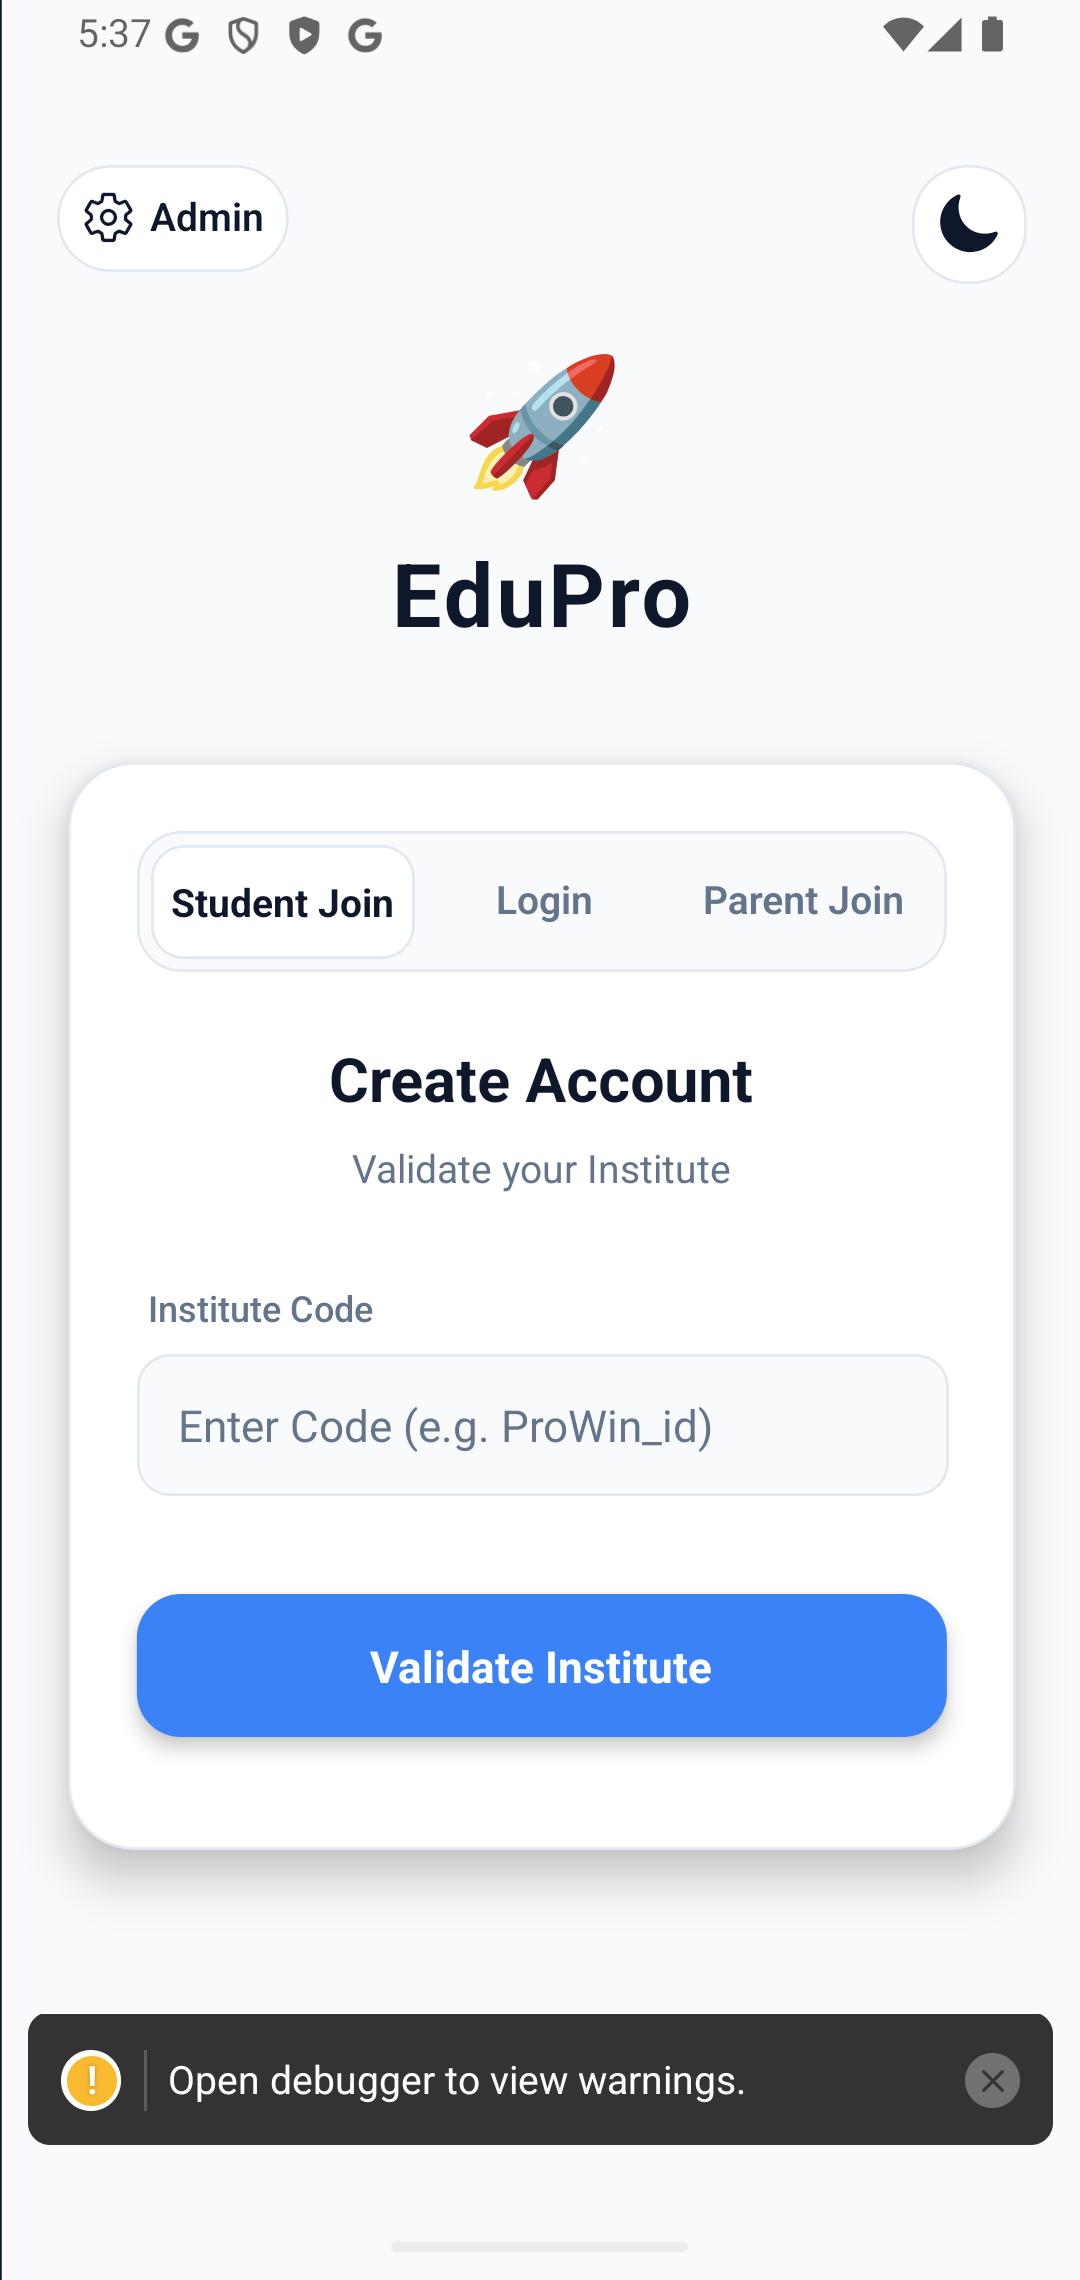
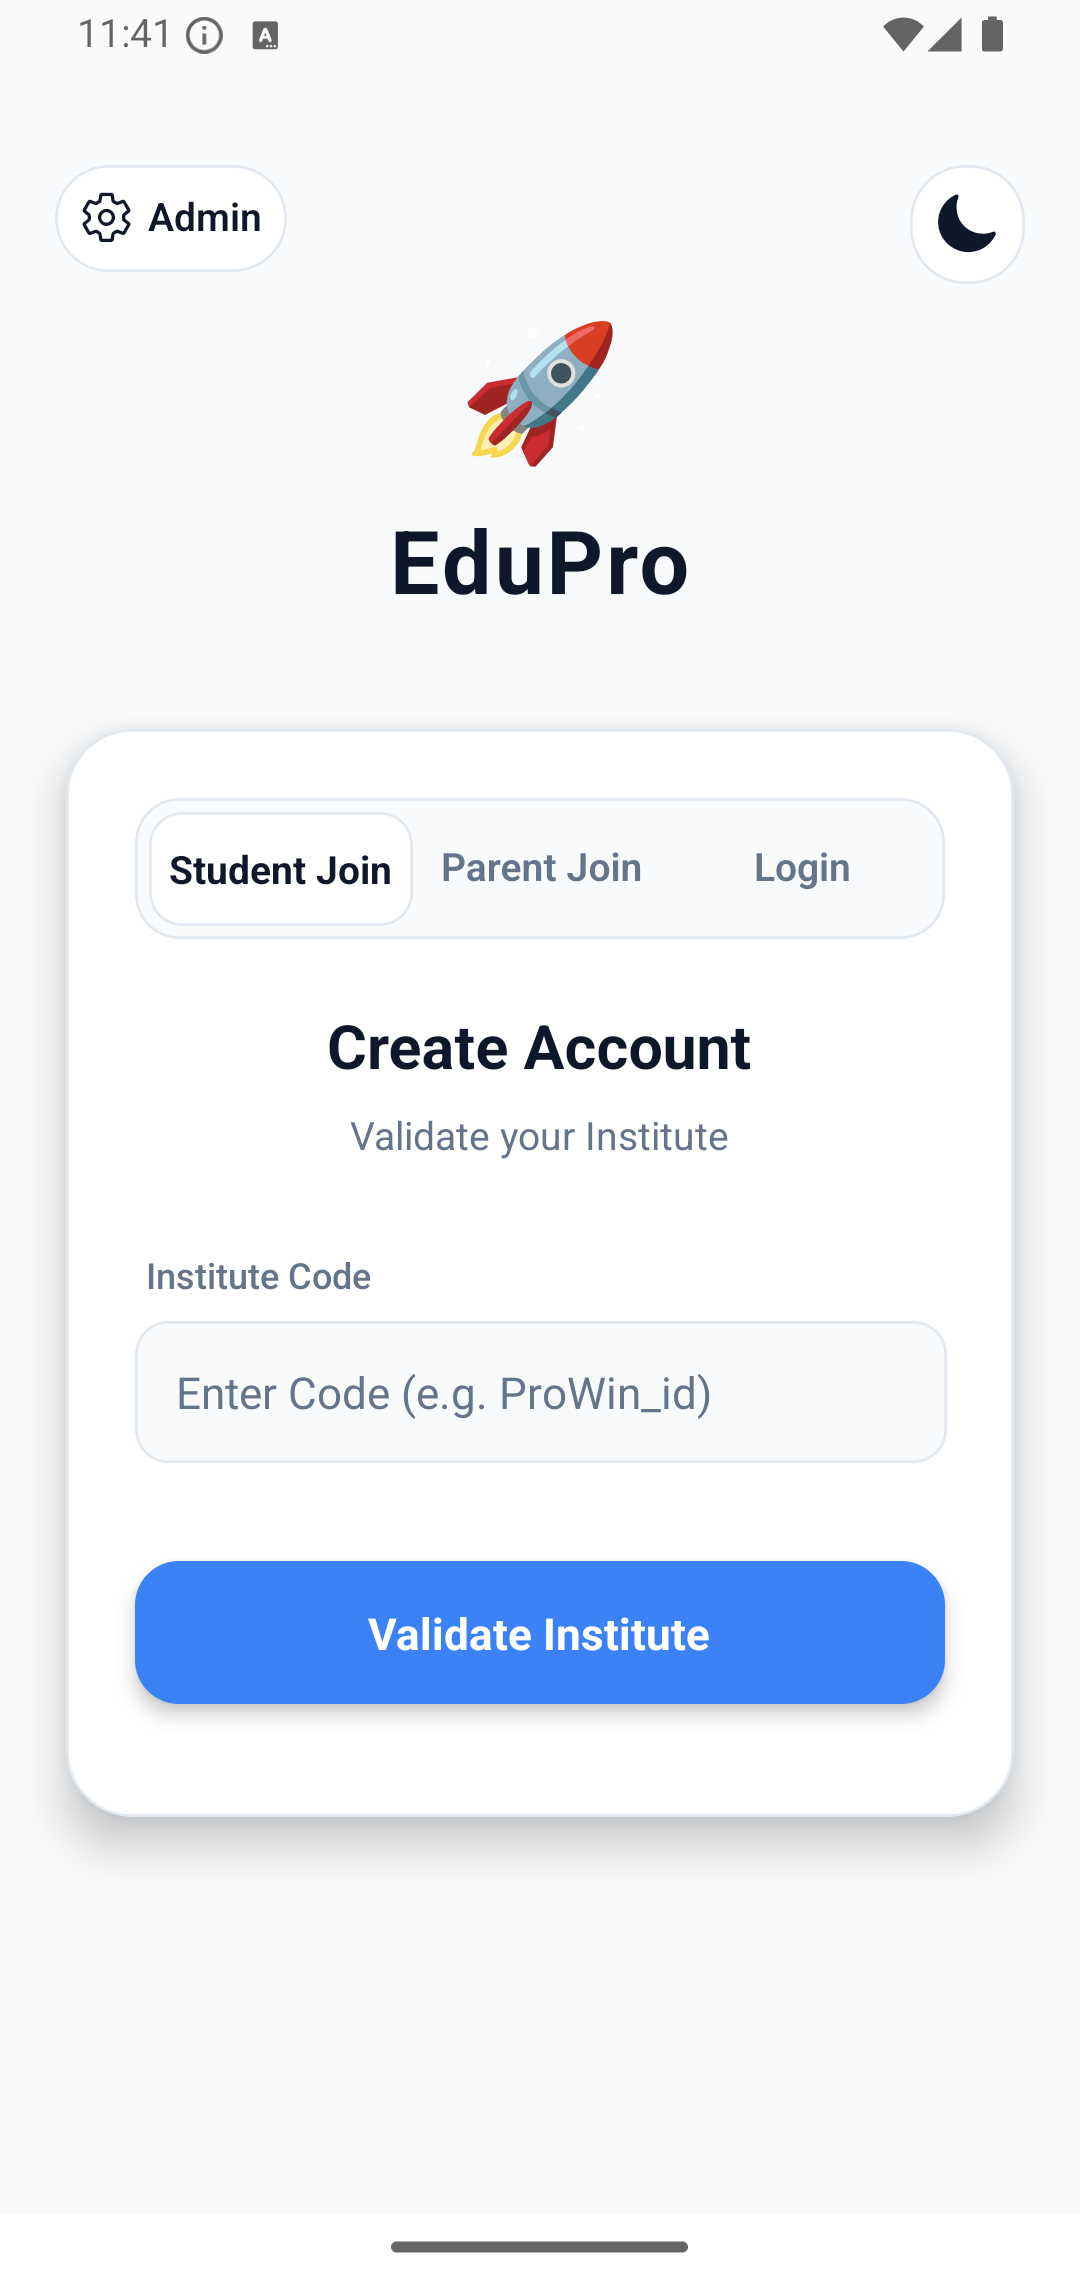
Siblings scenarios handled

diff --git a/admin-web/src/AttendanceManager.jsx b/admin-web/src/AttendanceManager.jsx
@@ -116,13 +116,17 @@ const AttendanceManager = ({ students, tenantId, onAlert, filterGrade }) => {
 
                     for (const parentDoc of parentSnaps.docs) {
                         const parent = parentDoc.data();
-                        console.log(`Checking Parent: ${parent.name}, Token: ${parent.pushToken}, LinkedPhone: ${parent.linkedStudentPhone}`);
-                        if (parent.pushToken && parent.linkedStudentPhone) {
+                        const linkedPhones = [parent.linkedStudentPhone, ...(parent.linkedStudentPhones || [])]
+                            .filter(Boolean)
+                            .map(ph => ph.replace(/[^0-9]/g, ''));
+
+                        console.log(`Checking Parent: ${parent.name}, Token: ${parent.pushToken}, LinkedPhones: ${linkedPhones.join(', ')}`);
+
+                        if (parent.pushToken && linkedPhones.length > 0) {
                             // Find ALL students this parent is linked to who are also affected
                             const matchedAffectedStudents = Object.values(studentMap).filter(s => {
                                 const cleanStudentPhone = (s.phoneNumber || '').replace(/[^0-9]/g, '');
-                                const cleanParentLink = (parent.linkedStudentPhone || '').replace(/[^0-9]/g, '');
-                                return cleanStudentPhone === cleanParentLink && affectedStudentIds.includes(s.id);
+                                return linkedPhones.includes(cleanStudentPhone) && affectedStudentIds.includes(s.id);
                             });
 
                             for (const sData of matchedAffectedStudents) {
@@ -136,7 +140,7 @@ const AttendanceManager = ({ students, tenantId, onAlert, filterGrade }) => {
                                 );
                             }
                         } else {
-                            console.log(`Parent ${parent.name} missing pushToken or linkedStudentPhone`);
+                            console.log(`Parent ${parent.name} missing pushToken or linked students`);
                         }
                     }
                 }

diff --git a/admin-web/src/App.jsx b/admin-web/src/App.jsx
@@ -1846,8 +1846,11 @@ Password: [Hidden]`);
                       </thead>
                       <tbody>
                         {students.filter(p => p.role === 'PARENT').map(p => {
-                          // Find ALL linked student names
-                          const linkedStudents = students.filter(s => s.phoneNumber === p.linkedStudentPhone && s.role !== 'PARENT');
+                          // Find ALL linked student names (check both single phone and array)
+                          const linkedPhones = [p.linkedStudentPhone, ...(p.linkedStudentPhones || [])].filter(Boolean);
+                          const linkedStudents = students.filter(s =>
+                            linkedPhones.includes(s.phoneNumber?.replace(/[^0-9]/g, '')) && s.role !== 'PARENT'
+                          );
                           const linkedNames = linkedStudents.length > 0
                             ? linkedStudents.map(s => s.name).join(', ')
                             : p.linkedStudentPhone;

diff --git a/mobile-rn/app/doubts/index.tsx b/mobile-rn/app/doubts/index.tsx
@@ -101,6 +101,9 @@ export default function DoubtsScreen() {
 
             setDoubts(sorted);
             setLoading(false);
+        }, (error) => {
+            console.error("Doubts snapshot error:", error);
+            setLoading(false);
         });
 
         return () => unsubscribe();
